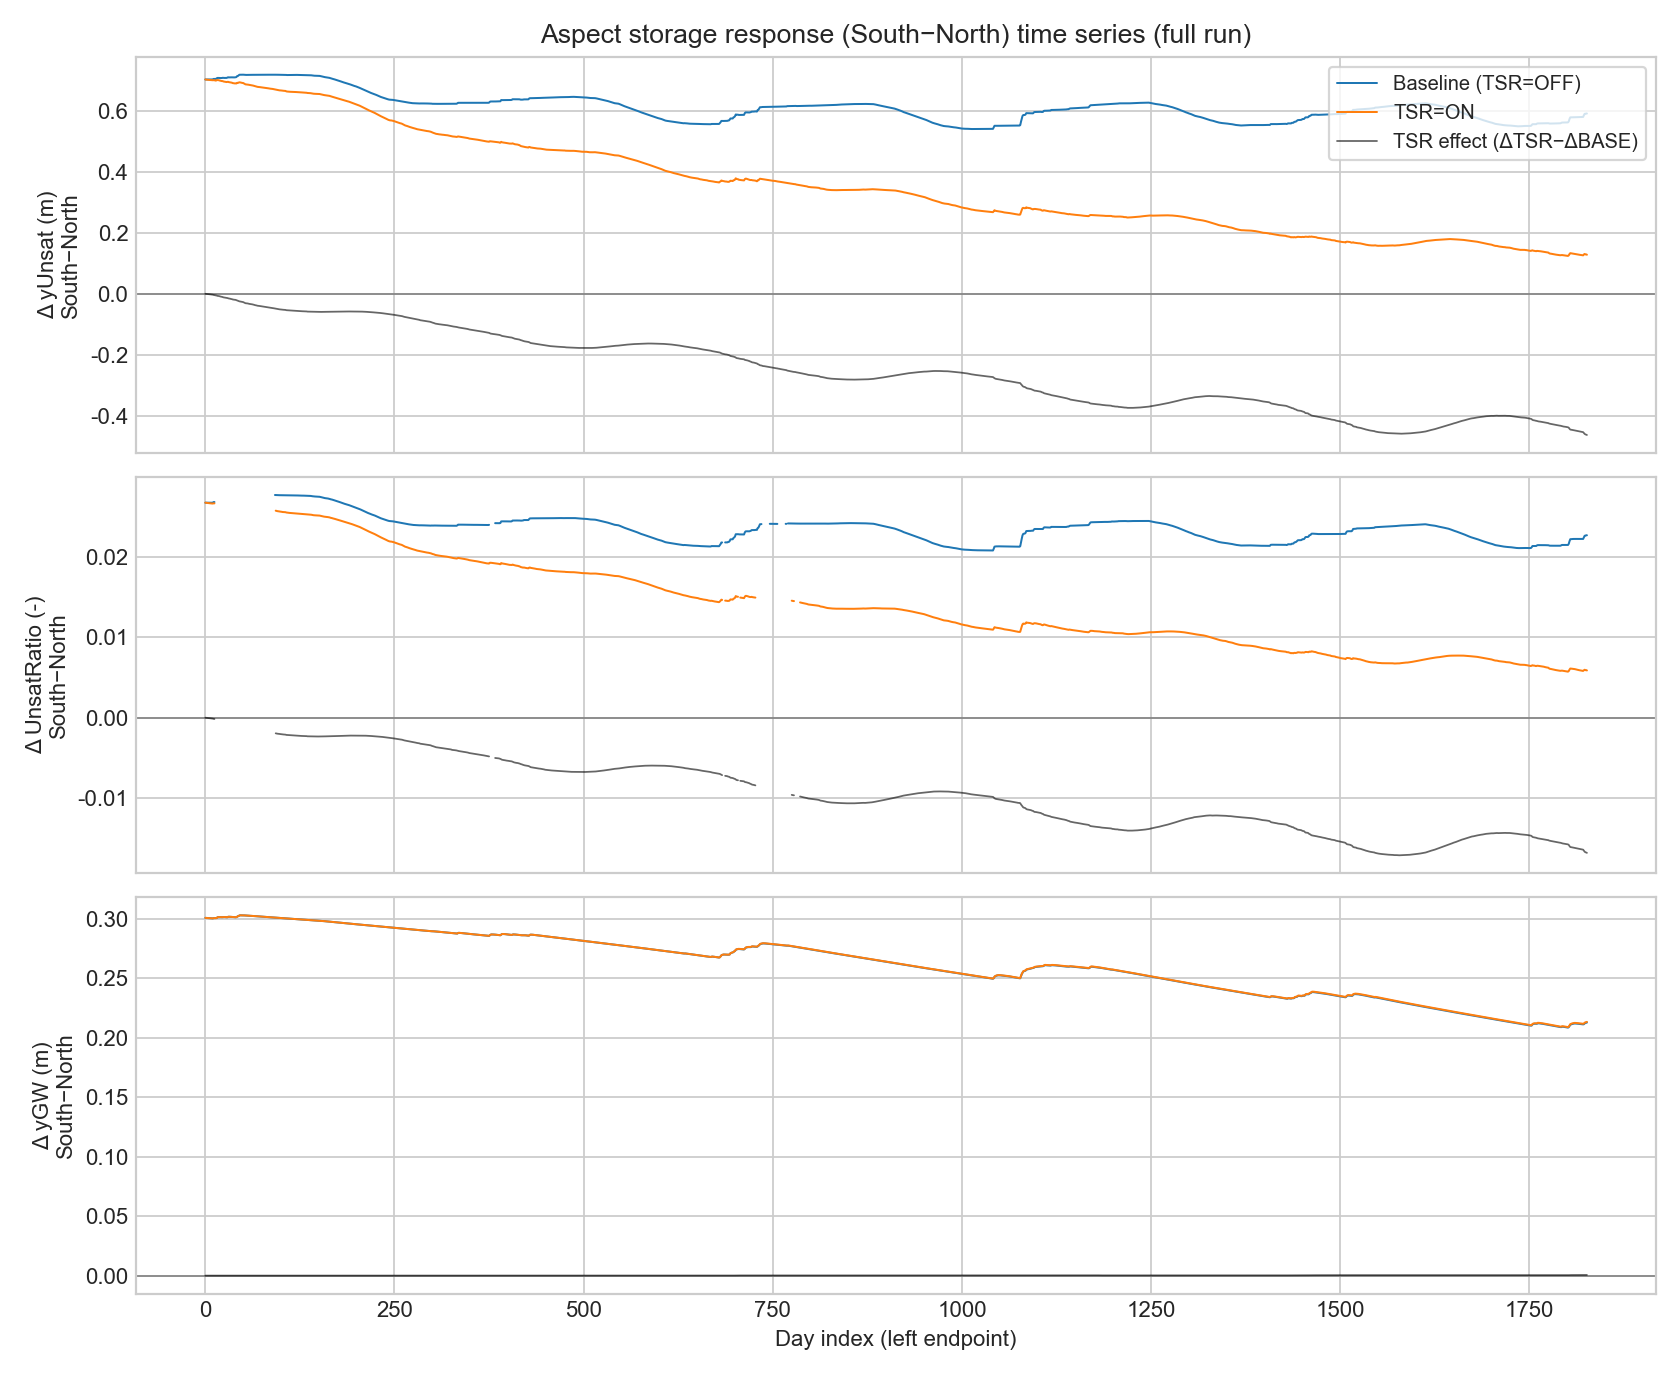
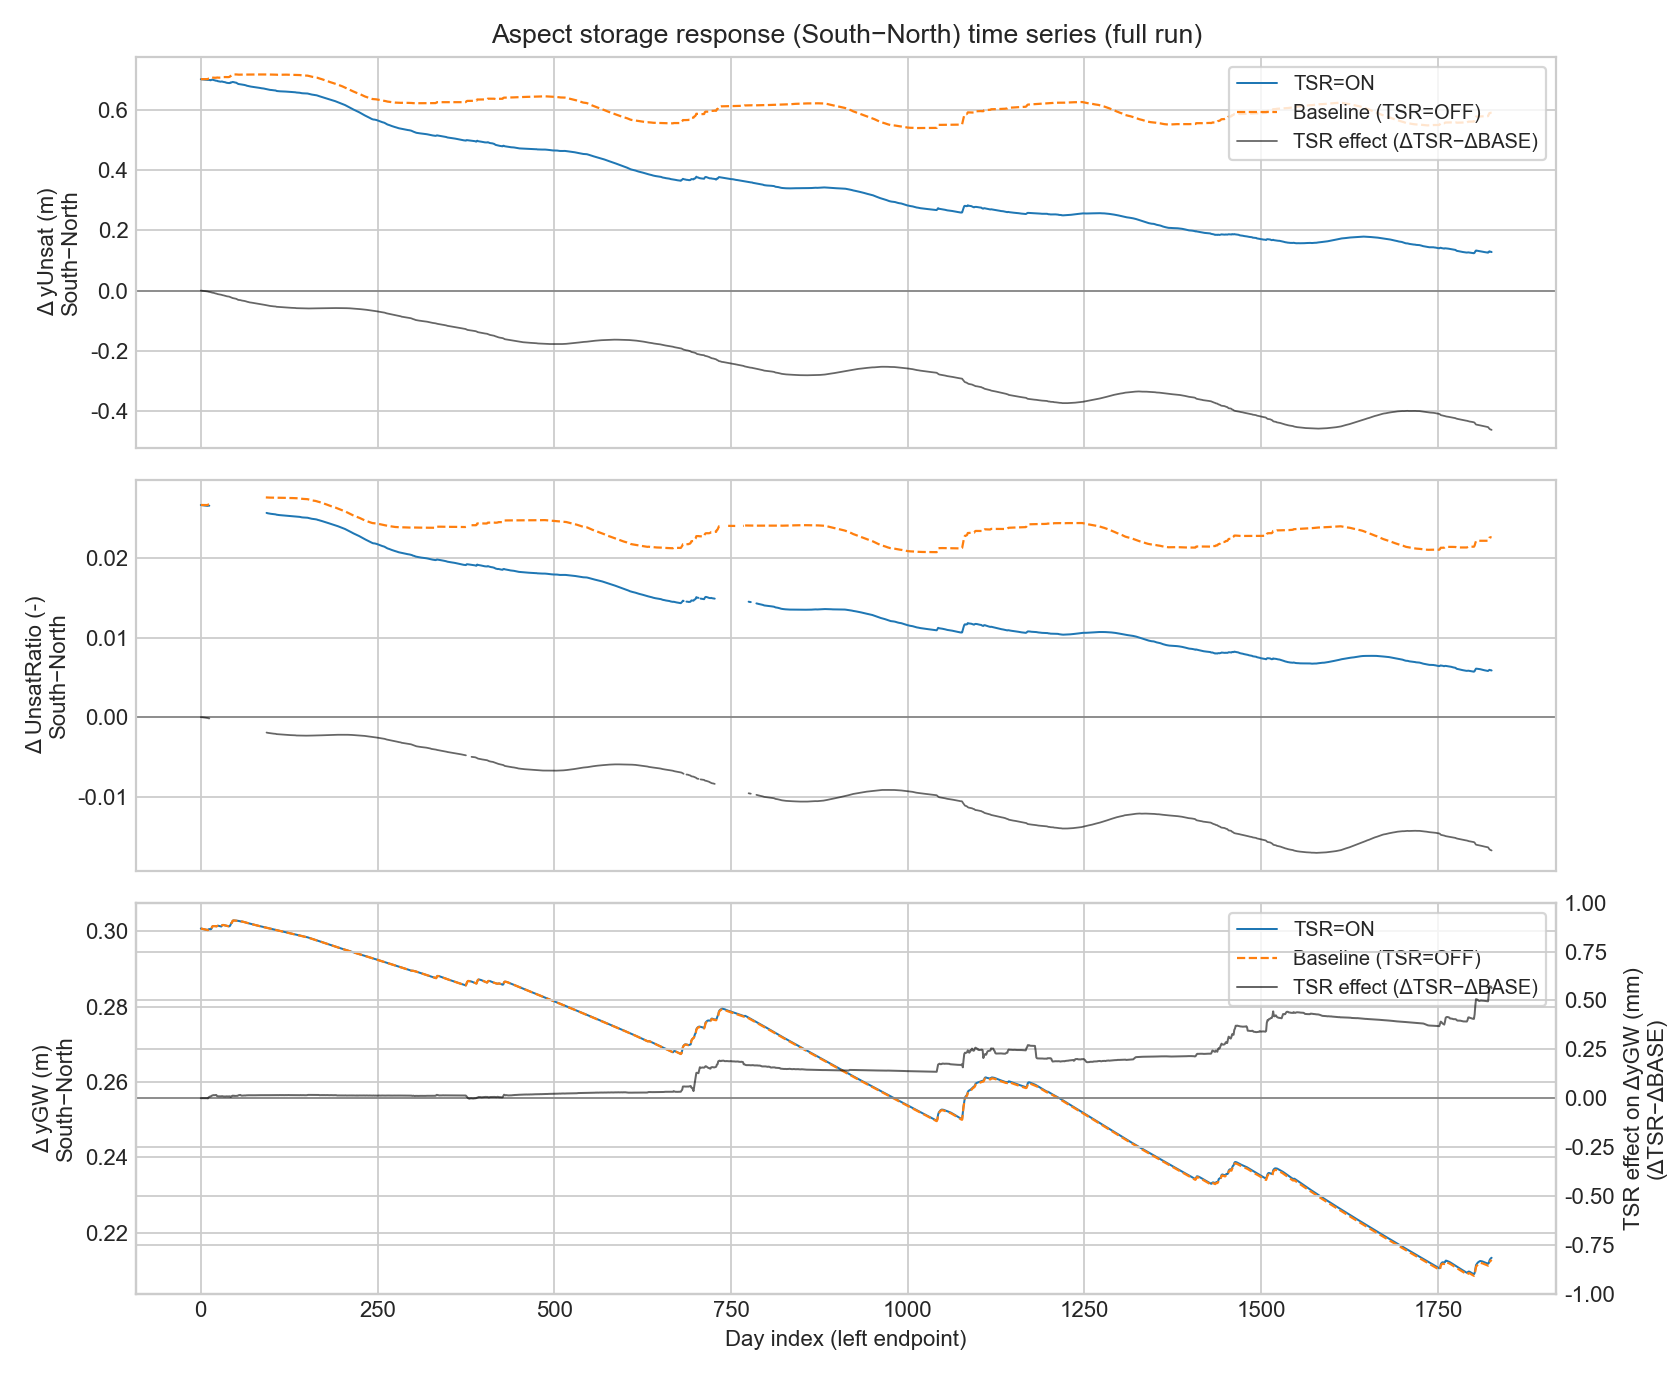
docs: fix baseline visibility in aspect yGW plot

diff --git a/post_analysis/plot_water_balance_verification.py b/post_analysis/plot_water_balance_verification.py
@@ -459,8 +459,8 @@ def plot_aspect_storage_delta_timeseries(
     fig, axes = plt.subplots(3, 1, figsize=(10.5, 8.6), sharex=True)
 
     ax = axes[0]
-    ax.plot(day_b, du_b, lw=0.9, label="Baseline (TSR=OFF)")
     ax.plot(day_t, du_t, lw=0.9, label="TSR=ON")
+    ax.plot(day_b, du_b, lw=1.0, ls="--", label="Baseline (TSR=OFF)")
     ax.plot(day_t, du_eff, lw=0.8, color="k", alpha=0.6, label="TSR effect (ΔTSR−ΔBASE)")
     ax.axhline(0.0, color="k", lw=0.7, alpha=0.4)
     ax.set_ylabel("Δ yUnsat (m)\nSouth−North")
@@ -468,19 +468,32 @@ def plot_aspect_storage_delta_timeseries(
     ax.legend(loc="upper right", frameon=True, fontsize=9)
 
     ax = axes[1]
-    ax.plot(day_b, dr_b, lw=0.9, label="Baseline (TSR=OFF)")
     ax.plot(day_t, dr_t, lw=0.9, label="TSR=ON")
+    ax.plot(day_b, dr_b, lw=1.0, ls="--", label="Baseline (TSR=OFF)")
     ax.plot(day_t, dr_eff, lw=0.8, color="k", alpha=0.6, label="TSR effect (ΔTSR−ΔBASE)")
     ax.axhline(0.0, color="k", lw=0.7, alpha=0.4)
     ax.set_ylabel("Δ UnsatRatio (-)\nSouth−North")
 
     ax = axes[2]
-    ax.plot(day_b, dg_b, lw=0.9, label="Baseline (TSR=OFF)")
+    # ΔyGW is O(0.1m) but TSR effect (difference-of-differences) is O(1e-4m).
+    # Plot ΔyGW on the left axis and TSR effect on a right axis (mm) so neither becomes visually invisible.
     ax.plot(day_t, dg_t, lw=0.9, label="TSR=ON")
-    ax.plot(day_t, dg_eff, lw=0.8, color="k", alpha=0.6, label="TSR effect (ΔTSR−ΔBASE)")
-    ax.axhline(0.0, color="k", lw=0.7, alpha=0.4)
+    ax.plot(day_b, dg_b, lw=1.0, ls="--", label="Baseline (TSR=OFF)")
     ax.set_xlabel("Day index (left endpoint)")
     ax.set_ylabel("Δ yGW (m)\nSouth−North")
+    axr = ax.twinx()
+    axr.plot(day_t, dg_eff * 1000.0, lw=0.9, color="k", alpha=0.6, label="TSR effect (ΔTSR−ΔBASE)")
+    axr.axhline(0.0, color="k", lw=0.7, alpha=0.4)
+    axr.set_ylabel("TSR effect on ΔyGW (mm)\n(ΔTSR−ΔBASE)")
+    # Reasonable visibility window; auto-scale but keep a minimum range.
+    eff_mm = dg_eff * 1000.0
+    eff_max = float(np.nanmax(np.abs(eff_mm))) if eff_mm.size else 0.0
+    y = max(1.0, eff_max * 1.25)
+    axr.set_ylim(-y, y)
+    # Combine legends from left and right axes (so baseline is always visible in legend).
+    h1, l1 = ax.get_legend_handles_labels()
+    h2, l2 = axr.get_legend_handles_labels()
+    ax.legend(h1 + h2, l1 + l2, loc="upper right", frameon=True, fontsize=9)
 
     fig.tight_layout()
     out_path.parent.mkdir(parents=True, exist_ok=True)
